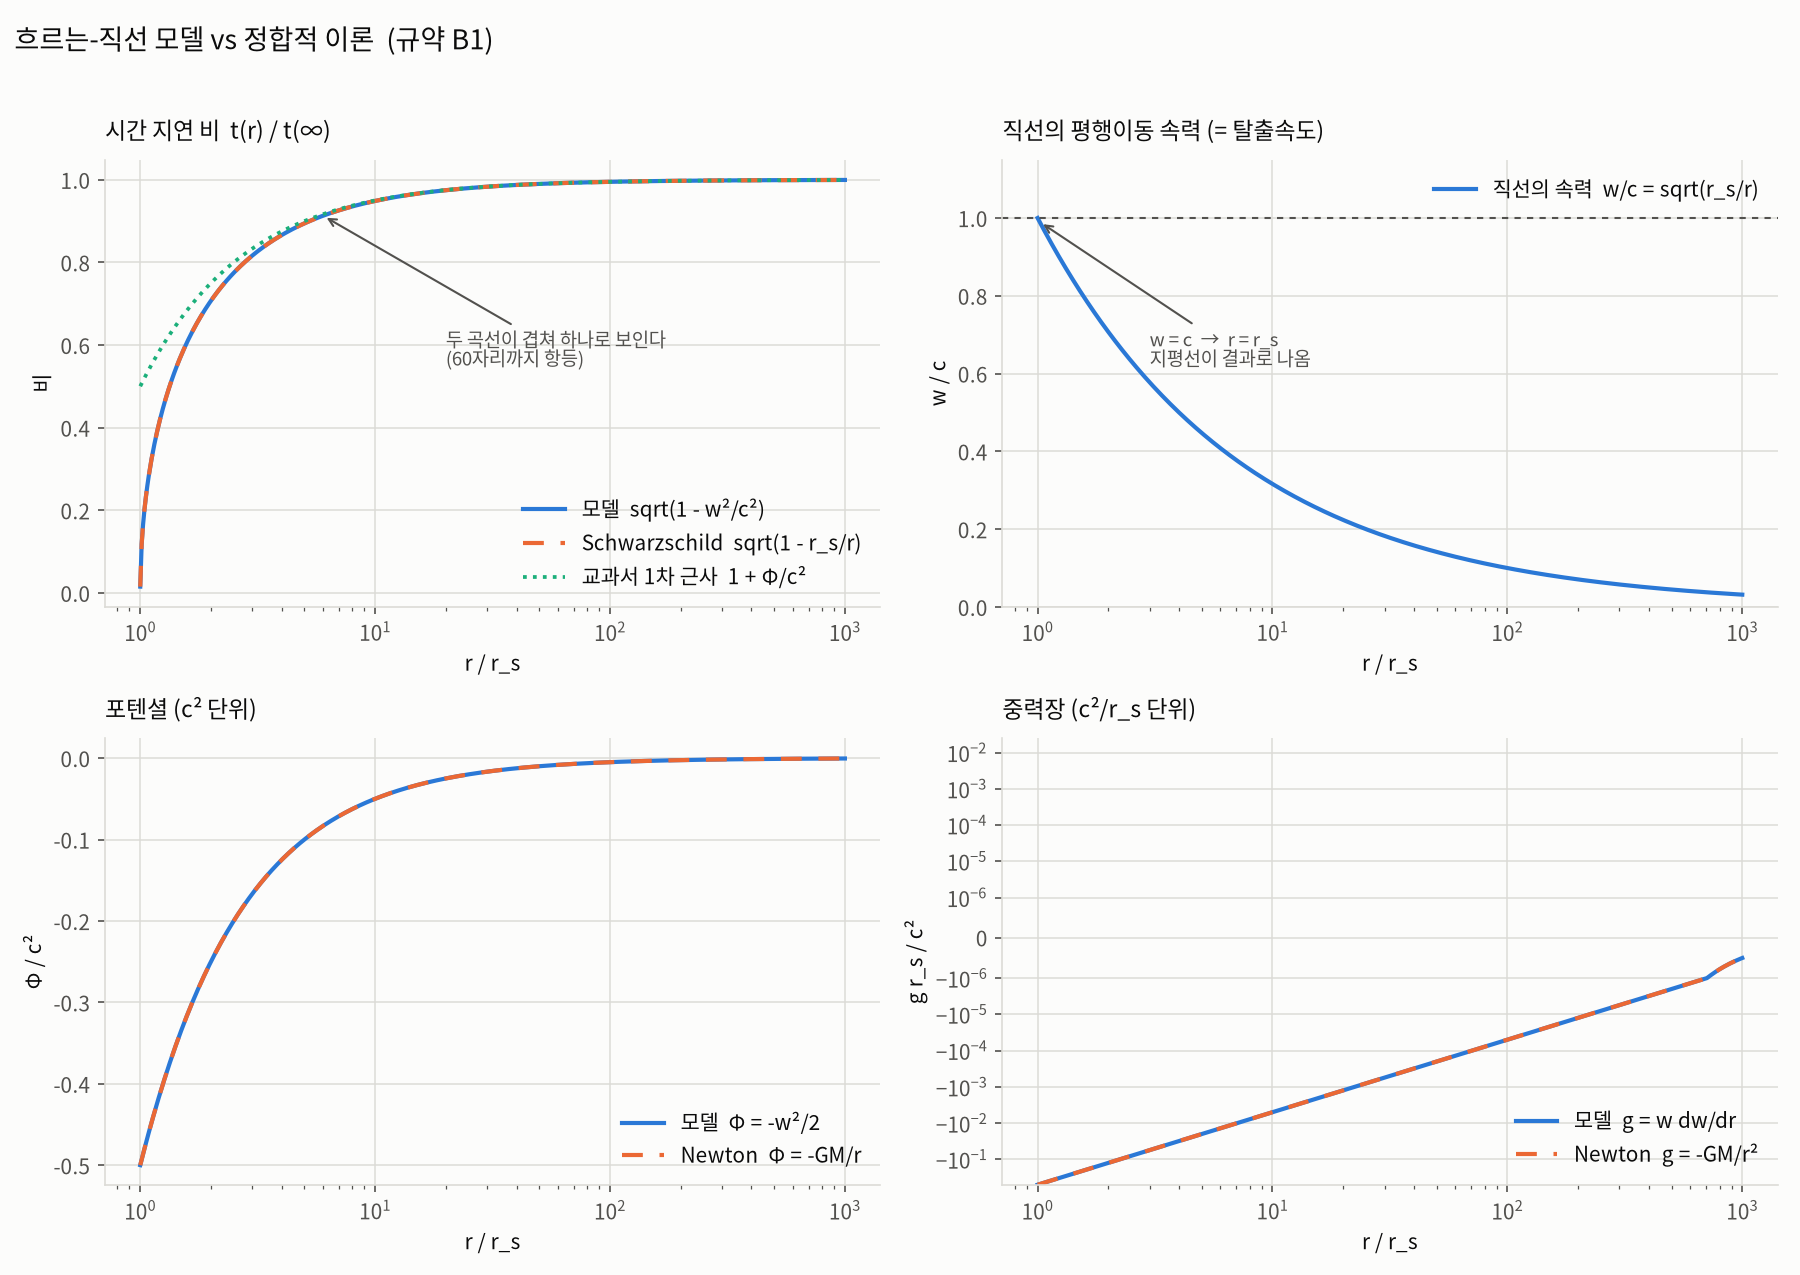
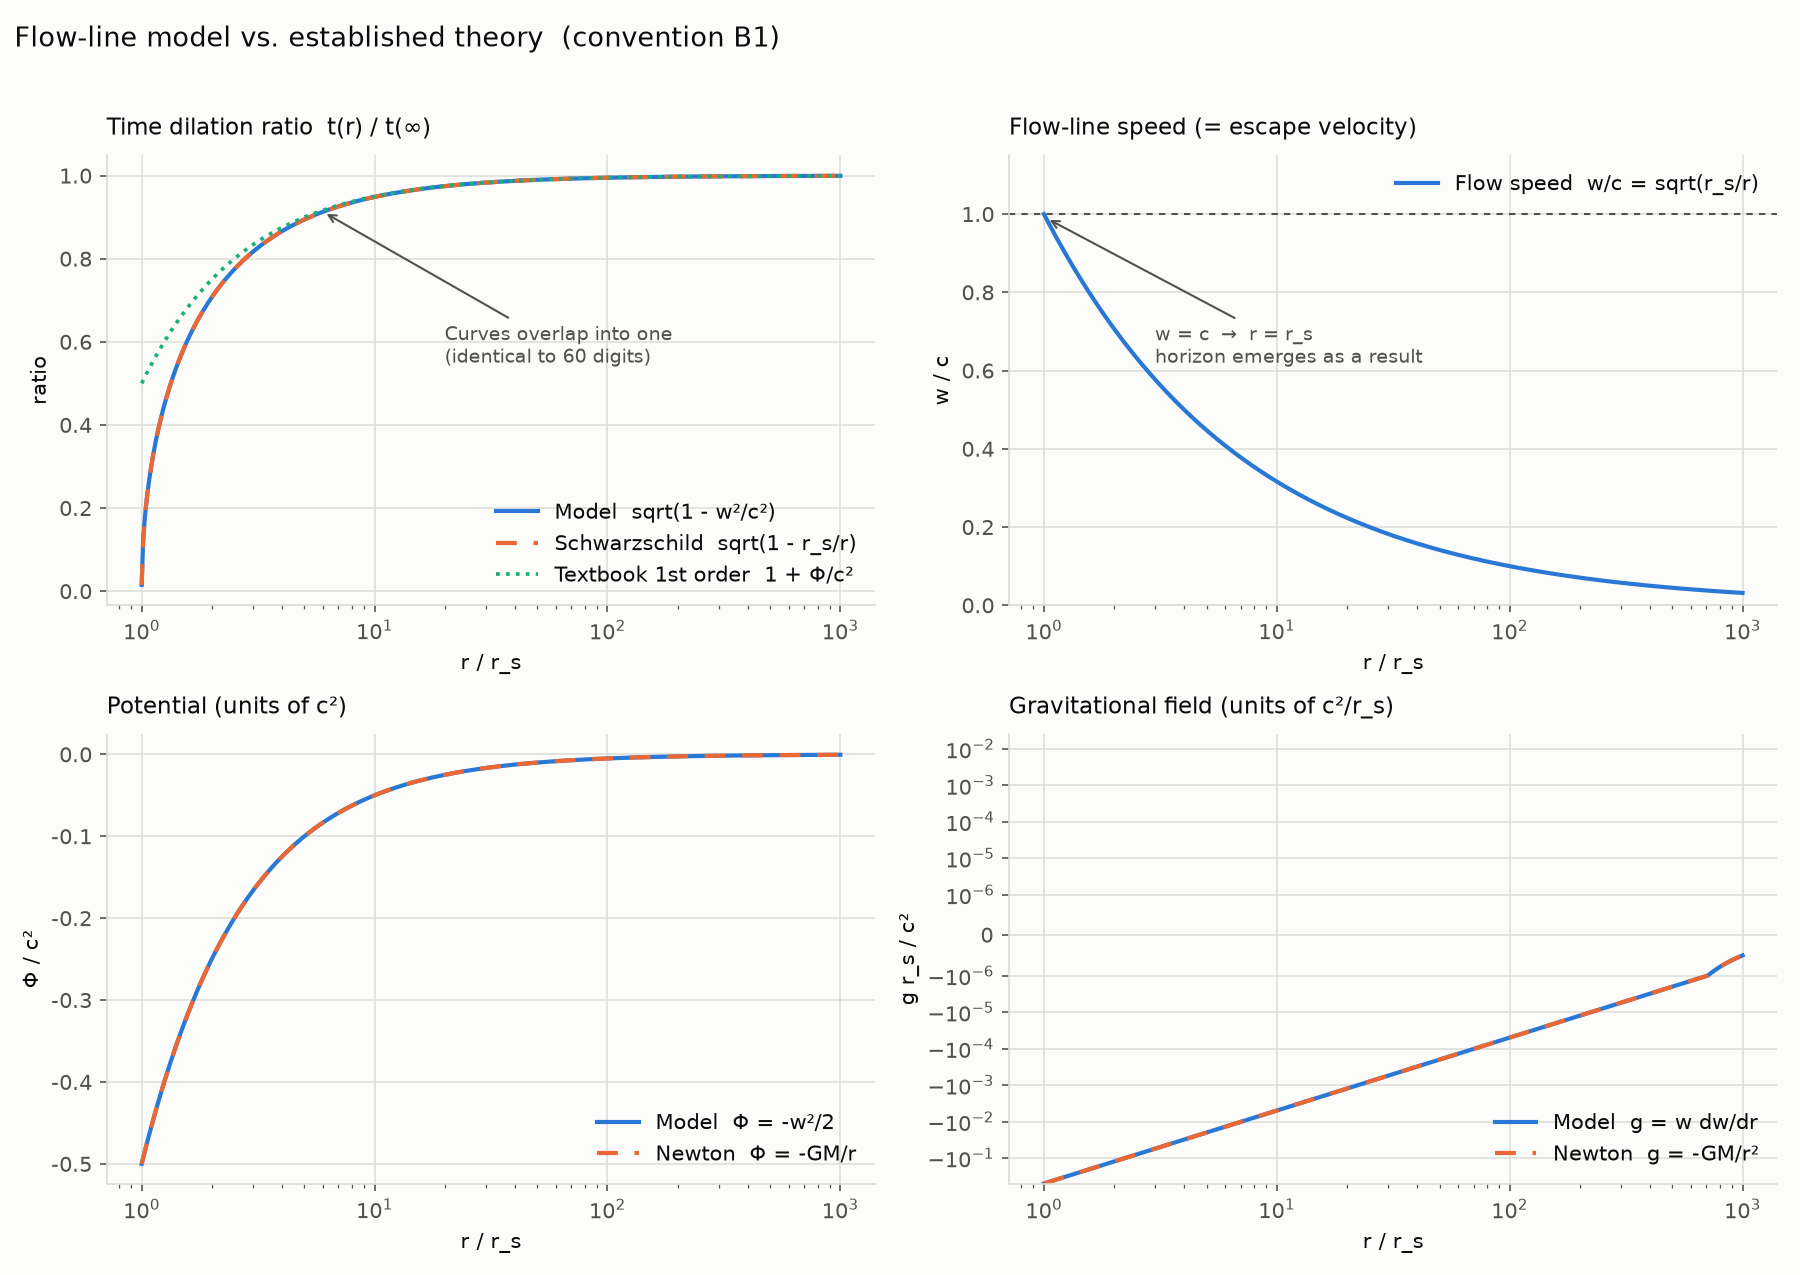
그림 텍스트를 영어로 바꿔 코랩 한글 폰트 문제를 근본적으로 없앰
세 차례에 걸쳐 코랩 커널의 matplotlib 폰트 매니저 상태 문제를
고쳐봤다(재대입, addfont 로 제자리 갱신 등) -- 이 컨테이너의 재현
환경에서는 모두 검증됐는데도, 실제 코랩에서는 여전히 한글이 두부로
나온다는 스크린샷을 받았다. 코랩 환경이 이 컨테이너와 완전히 같다는
보장이 없는 채로 매번 "이번엔 진짜 원인을 찾았다" 를 반복하는 것보다,
문제 자체를 없애는 쪽이 확실하다.

flowline/plots.py 가 그리는 그림 텍스트(제목/축/범례/주석)를 전부
영어로 바꿨다. matplotlib 기본 번들 폰트인 DejaVu Sans 는 이 프로젝트가
쓰는 기호(Φ, β, →, ∞, − 등)를 설치 없이 항상 지원하므로, 한글 폰트
설치도, 폰트 매니저 상태 걱정도 필요 없어진다. 한글 폰트 감지/폴백
로직(_hangul_font, _font_has 등)을 통째로 걷어내 파일이 228줄에서
많이 짧아졌다.

코드 주석, report.py 의 표 출력, README, 이 커밋 메시지는 그대로
한글이다 -- 그건 matplotlib 이 그리는 게 아니라 터미널/브라우저가
렌더링하는 텍스트라 이 문제와 애초에 무관하다.

노트북에서 한글 폰트 설치 셀을 완전히 제거했다 (mpmath 설치만 남기는
셀로 교체). flowline/*.py 를 다시 %%writefile 셀로 동기화해 저장소
소스와 바이트 단위로 동일함을 diff 로 재확인했다.

이 컨테이너에서 Noto CJK/나눔 계열 한글 폰트를 시스템에서 전부 제거한
뒤 노트북 전체를 실행해, 오류 없이 완주하고 fig1~3 이 전부 정상
렌더링됨을 확인했다 (한글 폰트가 아예 없어도 깨질 이유 자체가 없다).
로컬 report.txt 는 바이트 단위로 그대로다 (report.py 는 건드리지
않았다).

diff --git a/flowline/plots.py b/flowline/plots.py
@@ -2,6 +2,17 @@
 
 수치표는 mpmath 고정밀로 뽑지만, 그림은 강한장 영역을 그리므로
 자릿수 소거 문제가 없다. 여기서는 float/numpy 를 쓴다.
+
+그림 안의 텍스트(제목/축/범례/주석)는 일부러 영어로 쓴다. 코랩 커널이
+matplotlib 을 미리 로드해 둔 뒤에 한글 폰트를 설치하면, 폰트 매니저
+싱글턴이 여러 모듈에 '값으로' 복사돼 있어(matplotlib/text.py 등) 설치
+후에도 두부(tofu) 가 찍히는 경우가 있었다 (addfont 로 그 자리에서
+갱신해도 코랩 환경별로 재현이 들쭉날쭉했다). matplotlib 기본 번들
+폰트인 DejaVu Sans 는 라틴/그리스 문자와 기호(Φ, β, →, ∞, − 등)를
+설치 없이 항상 지원하므로, 그림 텍스트를 영어로 두면 이 문제 자체가
+사라진다. 코드 주석과 report.py 의 표 출력, README 는 그대로 한글이다
+-- 그건 matplotlib 이 그리는 게 아니라 터미널/브라우저가 그리는
+텍스트라 이 문제와 무관하다.
 """
 
 import sys
@@ -15,63 +26,8 @@ import matplotlib
 if "IPython" not in sys.modules:
     matplotlib.use("Agg")
 
-import matplotlib.font_manager as fm
 import matplotlib.pyplot as plt
 import numpy as np
-
-
-def _font_has(path, codepoints):
-    """폰트가 해당 코드포인트를 실제로 담고 있는지 확인. fontTools 가 없으면 None."""
-    try:
-        from fontTools.ttLib import TTFont
-    except ImportError:
-        return None
-    try:
-        font = TTFont(path, fontNumber=0, lazy=True)
-        cmap = set()
-        for table in font["cmap"].tables:
-            cmap |= set(table.cmap)
-        font.close()
-    except Exception:
-        return None
-    return all(cp in cmap for cp in codepoints)
-
-
-# 한글(U+AC00) 과 마이너스(U+2212) 를 모두 담아야 한다. 후자는 로그축 눈금
-# 라벨에 쓰이는데, 나눔 계열에는 없어서 눈금이 두부(tofu)가 된다.
-_REQUIRED = (0xAC00, 0x2212)
-
-
-def _hangul_font():
-    """그림 라벨이 한글이라 한글 폰트가 필요하다. 없으면 두부가 찍힌다."""
-    preferred = ("Noto Sans CJK KR", "Noto Sans KR", "Malgun Gothic",
-                 "AppleGothic", "NanumGothic", "NanumBarunGothic")
-    installed = {f.name: f.fname for f in fm.fontManager.ttflist}
-    fallback = None
-    for name in preferred:
-        if name not in installed:
-            continue
-        ok = _font_has(installed[name], _REQUIRED)
-        if ok or ok is None:
-            return name
-        fallback = fallback or name          # 한글은 되지만 글리프가 모자란 폰트
-
-    import warnings
-
-    if fallback:
-        warnings.warn(
-            f"{fallback} 에는 U+2212(마이너스) 글리프가 없어 로그축 눈금이 깨진다. "
-            "권장: apt-get install fonts-noto-cjk",
-            RuntimeWarning,
-        )
-        return fallback
-    warnings.warn(
-        "한글 폰트를 찾지 못했다. 그림의 한글 라벨이 깨진다. "
-        "설치: apt-get install fonts-noto-cjk  (그 뒤 matplotlib 캐시 삭제)",
-        RuntimeWarning,
-    )
-    return None
-
 
 # dataviz 기준 팔레트 (light 모드). 계열은 고정 순서로 배정하고 순환시키지 않는다.
 SURFACE = "#fcfcfb"
@@ -81,16 +37,9 @@ GRID = "#dcdbd6"
 S1, S2, S3 = "#2a78d6", "#eb6834", "#1baf7a"        # 범주형 슬롯 1~3
 SEQ = ["#86b6ef", "#2a78d6", "#104281"]             # 순차 램프 (u 는 연속량)
 
-_FONT = _hangul_font()
-
 plt.rcParams.update({
-    **({"font.family": [_FONT, "DejaVu Sans"]} if _FONT else {}),
     "axes.unicode_minus": False,
-    # 로그축 눈금은 mathtext 로 그려지고, mathtext 의 'default'/'normal' 슬롯은
-    # 폰트셋이 아니라 본문 폰트를 쓴다. 본문 폰트에 U+2212 이 없으면 눈금이
-    # 두부가 되므로, 'rm' 으로 고정해 폰트셋 쪽을 쓰게 한다.
     "mathtext.fontset": "dejavusans",
-    "mathtext.default": "rm",
     "figure.facecolor": SURFACE,
     "axes.facecolor": SURFACE,
     "savefig.facecolor": SURFACE,
@@ -127,41 +76,41 @@ def figure_profiles(path):
     fig, axes = plt.subplots(2, 2, figsize=(12, 8.5))
 
     ax = axes[0, 0]
-    ax.plot(x, np.sqrt(1 - beta**2), color=S1, label="모델  sqrt(1 - w²/c²)")
+    ax.plot(x, np.sqrt(1 - beta**2), color=S1, label="Model  sqrt(1 - w²/c²)")
     ax.plot(x, np.sqrt(1 - 1 / x), color=S2, linestyle="--", dashes=(5, 4),
             label="Schwarzschild  sqrt(1 - r_s/r)")
     ax.plot(x, 1 - 0.5 / x, color=S3, linestyle=":", linewidth=1.8,
-            label="교과서 1차 근사  1 + Φ/c²")
-    _style(ax, "시간 지연 비  t(r) / t(∞)", "r / r_s", "비")
+            label="Textbook 1st order  1 + Φ/c²")
+    _style(ax, "Time dilation ratio  t(r) / t(∞)", "r / r_s", "ratio")
     ax.legend(loc="lower right")
-    ax.annotate("두 곡선이 겹쳐 하나로 보인다\n(60자리까지 항등)",
+    ax.annotate("Curves overlap into one\n(identical to 60 digits)",
                 xy=(6, np.sqrt(1 - 1 / 6)), xytext=(20, 0.55), color=INK_2, fontsize=9,
                 arrowprops=dict(arrowstyle="->", color=INK_2, linewidth=1))
 
     ax = axes[0, 1]
-    ax.plot(x, beta, color=S1, label="직선의 속력  w/c = sqrt(r_s/r)")
+    ax.plot(x, beta, color=S1, label="Flow speed  w/c = sqrt(r_s/r)")
     ax.axhline(1.0, color=INK_2, linewidth=1, linestyle="--", dashes=(3, 3))
-    _style(ax, "직선의 평행이동 속력 (= 탈출속도)", "r / r_s", "w / c")
+    _style(ax, "Flow-line speed (= escape velocity)", "r / r_s", "w / c")
     ax.set_ylim(0, 1.15)
     ax.legend(loc="upper right")
-    ax.annotate("w = c  →  r = r_s\n지평선이 결과로 나옴",
+    ax.annotate("w = c  →  r = r_s\nhorizon emerges as a result",
                 xy=(1.02, 0.99), xytext=(3, 0.62), color=INK_2, fontsize=9,
                 arrowprops=dict(arrowstyle="->", color=INK_2, linewidth=1))
 
     ax = axes[1, 0]
-    ax.plot(x, -0.5 * beta**2, color=S1, label="모델  Φ = -w²/2")
+    ax.plot(x, -0.5 * beta**2, color=S1, label="Model  Φ = -w²/2")
     ax.plot(x, -0.5 / x, color=S2, linestyle="--", dashes=(5, 4), label="Newton  Φ = -GM/r")
-    _style(ax, "포텐셜 (c² 단위)", "r / r_s", "Φ / c²")
+    _style(ax, "Potential (units of c²)", "r / r_s", "Φ / c²")
     ax.legend(loc="lower right")
 
     ax = axes[1, 1]
-    ax.plot(x, -0.5 / x**2, color=S1, label="모델  g = w dw/dr")
+    ax.plot(x, -0.5 / x**2, color=S1, label="Model  g = w dw/dr")
     ax.plot(x, -0.5 / x**2, color=S2, linestyle="--", dashes=(5, 4), label="Newton  g = -GM/r²")
-    _style(ax, "중력장 (c²/r_s 단위)", "r / r_s", "g r_s / c²")
+    _style(ax, "Gravitational field (units of c²/r_s)", "r / r_s", "g r_s / c²")
     ax.set_yscale("symlog", linthresh=1e-6)
     ax.legend(loc="lower right")
 
-    fig.suptitle("흐르는-직선 모델 vs 정합적 이론  (규약 B1)",
+    fig.suptitle("Flow-line model vs. established theory  (convention B1)",
                  x=0.008, ha="left", fontsize=13, color=INK)
     fig.tight_layout(rect=(0, 0, 1, 0.965))
     fig.savefig(path, dpi=150)
@@ -174,29 +123,29 @@ def figure_conventions(path):
     fig, axes = plt.subplots(1, 2, figsize=(12, 4.6))
 
     ax = axes[0]
-    ax.plot(beta, np.sqrt(1 - beta**2), color=S1, label="B1  (채택) — u 무관")
+    ax.plot(beta, np.sqrt(1 - beta**2), color=S1, label="B1  (adopted) — u-independent")
     ax.plot(beta, 1 - beta**2, color=S2, linestyle="--", dashes=(5, 4),
-            label="C  = g_tt, 시간지연 아님")
+            label="C  = g_tt, not a time dilation")
     ax.plot(beta, np.sqrt(1 - beta**2) / (1 - 0.5 * beta), color=S3, linestyle=":",
-            linewidth=1.8, label="B2  (u=0.5c) — Doppler 오염")
+            linewidth=1.8, label="B2  (u=0.5c) — Doppler-contaminated")
     ax.axhline(1.0, color=INK_2, linewidth=1, linestyle="--", dashes=(3, 3))
-    _style(ax, "규약별 진행거리 비", "w / c", "비", logx=False)
+    _style(ax, "Distance-travelled ratio by convention", "w / c", "ratio", logx=False)
     ax.set_ylim(0, 1.42)
     ax.legend(loc="lower left")
-    ax.annotate("B2 는 비 > 1\n(시간이 빨리 감)", xy=(0.5, 1.155), xytext=(0.6, 1.32),
+    ax.annotate("B2 exceeds 1\n(time runs fast)", xy=(0.5, 1.155), xytext=(0.6, 1.32),
                 color=INK_2, fontsize=9, arrowprops=dict(arrowstyle="->", color=INK_2, linewidth=1))
 
     ax = axes[1]
     for u_over_c, color in zip((0.3, 0.6, 0.9), SEQ):
         with np.errstate(divide="ignore", invalid="ignore"):
             r = (1 - beta / u_over_c) / (1 - u_over_c * beta)
-        ax.plot(beta, r, color=color, label=f"규약 A,  u = {u_over_c}c")
+        ax.plot(beta, r, color=color, label=f"Convention A,  u = {u_over_c}c")
     ax.axhline(0.0, color=INK_2, linewidth=1)
-    _style(ax, "규약 A 는 점의 속력 u 에 의존한다 (기각 근거)", "w / c", "비", logx=False)
+    _style(ax, "Convention A depends on particle speed u (why it's rejected)", "w / c", "ratio", logx=False)
     ax.set_ylim(-2, 1.2)
     ax.legend(loc="lower left")
 
-    fig.suptitle("측정 규약의 선택 — 왜 B1 인가",
+    fig.suptitle("Choosing the measurement convention — why B1",
                  x=0.008, ha="left", fontsize=13, color=INK)
     fig.tight_layout(rect=(0, 0, 1, 0.93))
     fig.savefig(path, dpi=150)
@@ -218,15 +167,15 @@ def figure_weak_field(path):
     ])
 
     fig, ax = plt.subplots(figsize=(7.2, 4.8))
-    ax.plot(eps_f, resid, color=S1, label="| 모델 - (1 + Φ/c²) |  (60자리 계산)")
+    ax.plot(eps_f, resid, color=S1, label="| model - (1 + Φ/c²) |  (60-digit)")
     ax.plot(eps_f, eps_f**2 / 8, color=S2, linestyle="--", dashes=(5, 4),
-            label="(1/8)(r_s/r)²  기준선")
+            label="(1/8)(r_s/r)²  reference line")
     ax.axhline(2.2e-16, color=INK_2, linewidth=1, linestyle=":")
     ax.set_xscale("log")
     ax.set_yscale("log")
-    _style(ax, "약한장 잔차 — 2차 항 계수 검증", "r_s / r", "|잔차|", logx=True)
+    _style(ax, "Weak-field residual — checking the 2nd-order coefficient", "r_s / r", "|residual|", logx=True)
     ax.legend(loc="upper left")
-    ax.annotate("배정밀도 한계 (2.2e-16)\n이 아래는 float 로는 잡음이 된다",
+    ax.annotate("double precision floor (2.2e-16)\nbelow this, float is just noise",
                 xy=(2e-9, 2.2e-16), xytext=(3e-9, 3e-13),
                 color=INK_2, fontsize=9,
                 arrowprops=dict(arrowstyle="->", color=INK_2, linewidth=1))
